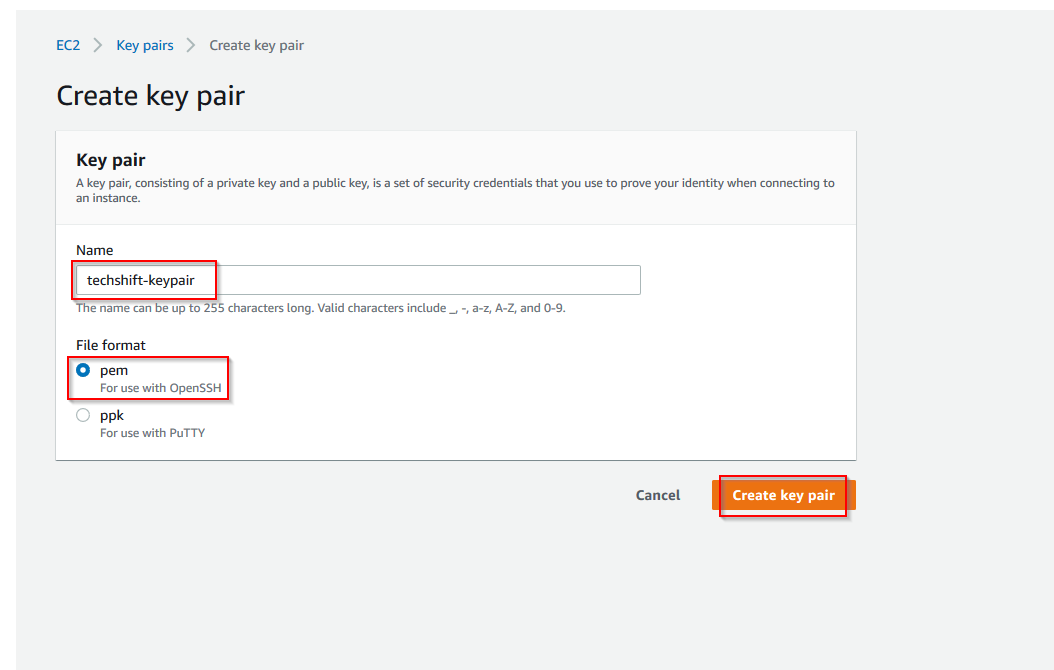
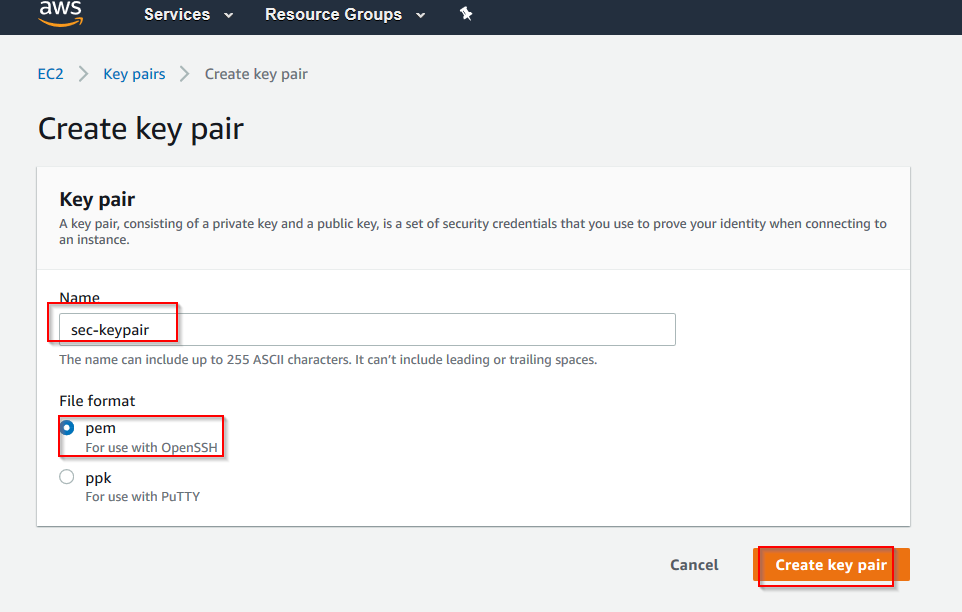
adding cloudformation setup 3

Changed region(s): [[0.0, 0.0, 1.0, 0.9935], [0.6861, 0.9003, 0.7484, 0.9314]]

diff --git a/00-Prerequisites-Lab/README.md b/00-Prerequisites-Lab/README.md
@@ -13,7 +13,7 @@ connection.
 
 ![images](images/d3c32b52f680b2710b9bb1a93c1407c1.png)
 
-3)  Key in *techshift-keypair* in the name box.
+3)  Key in *sec-keypair* in the name box.
 
 ![images](images/c4490616d6988656078799a2695d6b01.png)
 
@@ -31,12 +31,21 @@ connection.
 
 ![images](images/cloudformation-upload.png)
 
-3) Make sure that __Template is ready__ and __Upload a template file__ options are selected. Click on **Choose file** and upload the template that you downloaded in step 1) of this section.
+3) Make sure that __Template is ready__ and __Upload a template file__ options are selected. Click on **Choose file** and upload the template that you downloaded in step **1)** of this section and click **Next**
 
 ![images](images/cloudformation-upload-2.png)
 
+4) In the the form add a **Stack Name**, select the newly created __key__. The VPC CIDR, RDS Password and Username are already prepopulated for you. Once everything is filled in press **Next**
 
+![images](images/cloudformation-upload-3.png)
 
+5) In the next screen scroll to the bottom of the page and press **Next**.
+
+![images](images/cloudformation-upload-4.png)
+
+6) In the summary page click on **Create Stack**.
+
+![images](images/cloudformation-upload-5.png)
 
 
 
